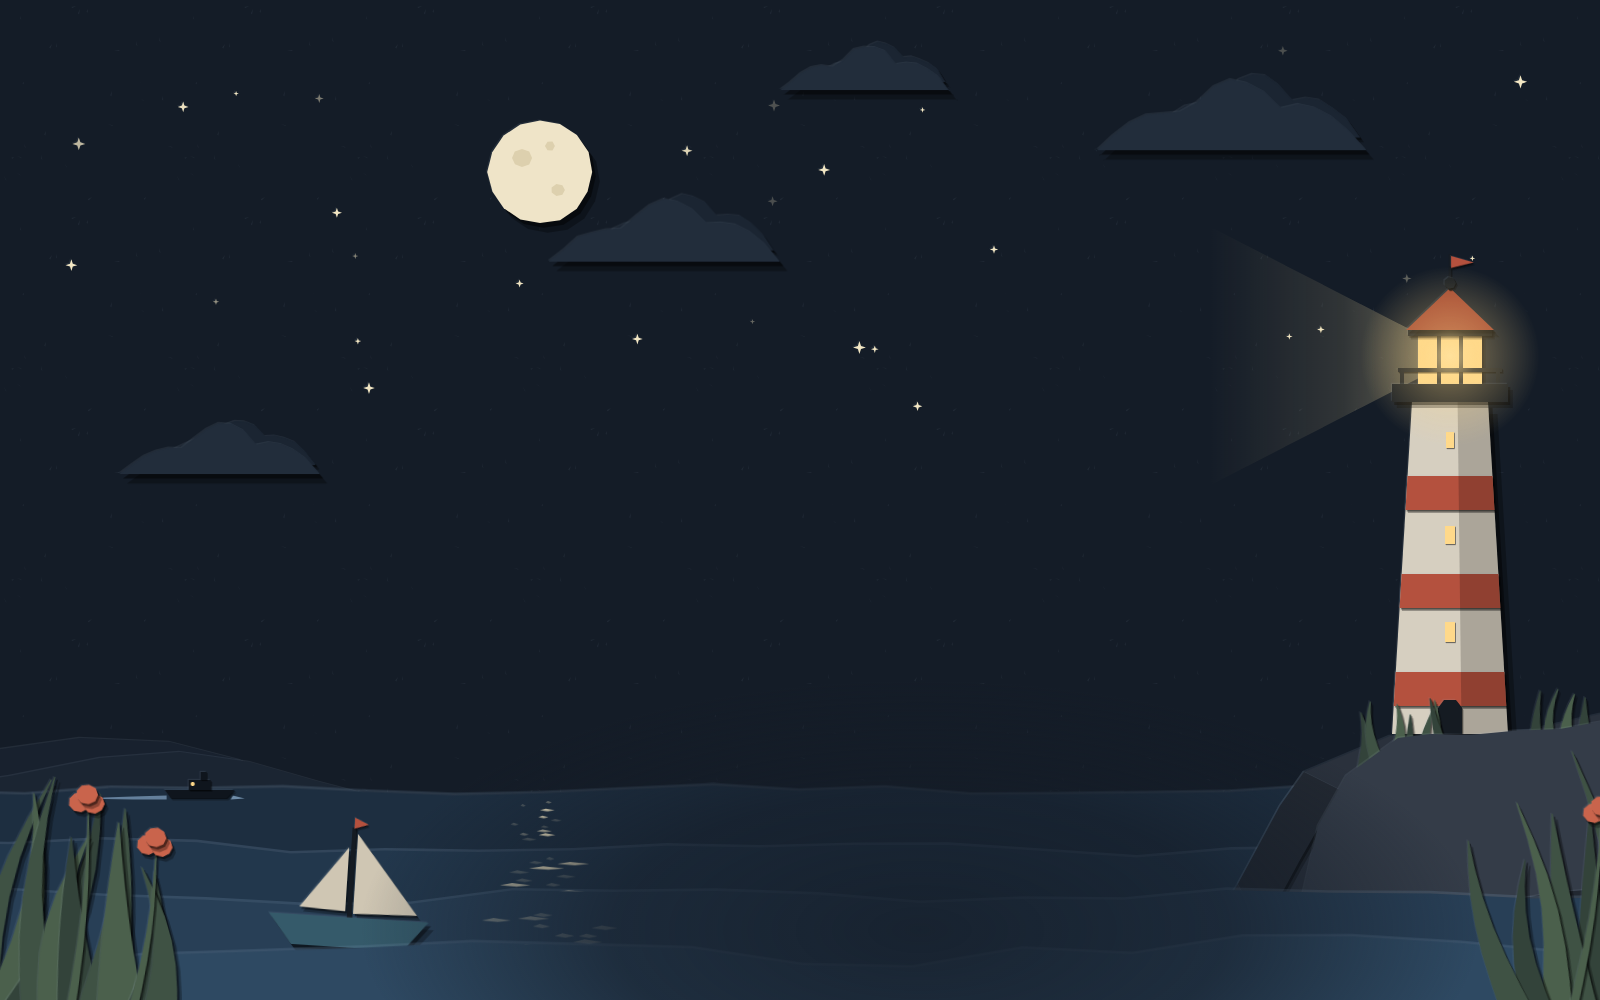
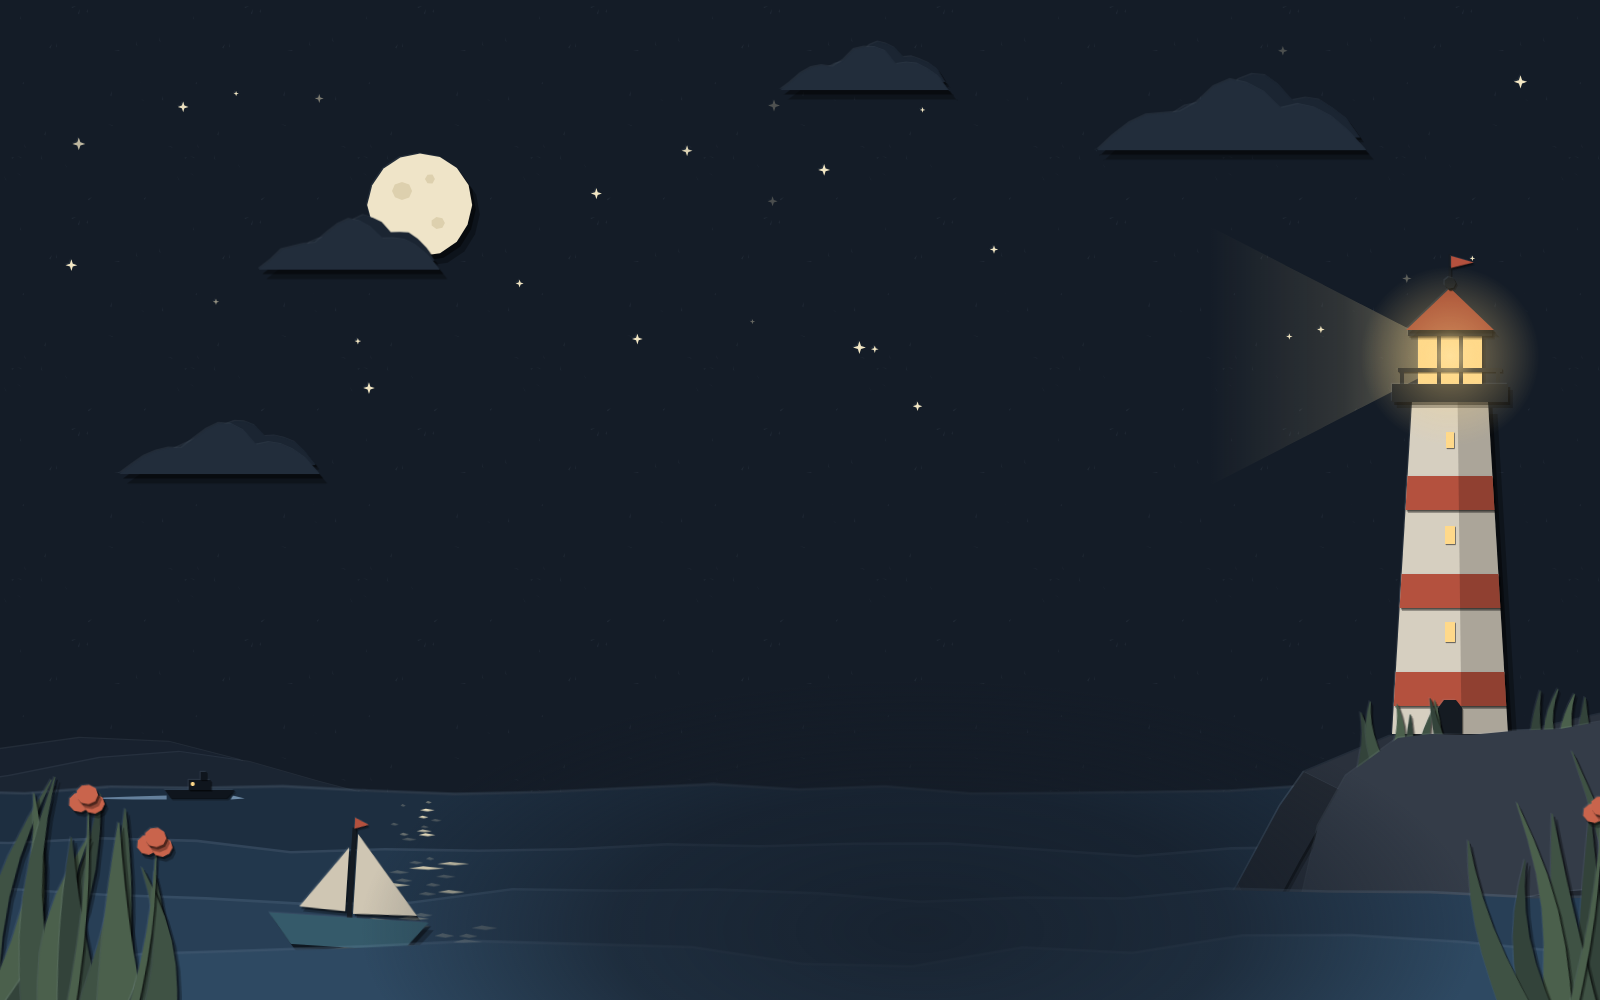
Sun and its cloud move into the gap beside the conversation
The sun sat at the left edge of the chat column and its cloud hid behind the
text. Both now sit between the sidebar and the conversation, a little lower,
with the cloud drifting across the sun's lower edge. The moon's craters follow
the sun's position instead of fixed numbers.

Changed region(s): [[0.2188, 0.124, 0.375, 0.279], [0.25, 0.868, 0.2812, 0.899], [0.25, 0.806, 0.2812, 0.837]]

diff --git a/hooks/scene.ts b/hooks/scene.ts
@@ -58,8 +58,8 @@ const TONES: [string, string] = [
 ]
 
 const LAMP: Point = [1450, 356]
-/** The sun by day, the moon by night: far enough right to clear the app's sidebar. */
-const SUN: Point = [540, 172]
+/** The sun by day, the moon by night: in the gap between the app's sidebar and the conversation, a little down toward the bay. */
+const SUN: Point = [420, 205]
 
 function fixed(value: number): number {
   return Number(value.toFixed(1))
@@ -198,9 +198,9 @@ function sky(): string {
     paper(shape('sunCore', facetEllipse(sunAt[0] - 6, sunAt[1] - 6, 40, 40, 16, 4)), 'sunCore', 1.2)
   day += moving('breathe', moving('spin', sun, 90, 0, sunAt), 9, 0, sunAt)
   night += paper(shape('moon', facetEllipse(sunAt[0], sunAt[1], 52, 52, 16, 5)), 'moon', 4)
-  night += paper(shape('crater1', facetEllipse(522, 158, 10, 9, 8, 6)), 'crater', 0, false)
-  night += paper(shape('crater2', facetEllipse(558, 190, 7, 6, 7, 7)), 'crater', 0, false)
-  night += paper(shape('crater3', facetEllipse(550, 146, 5, 5, 6, 8)), 'crater', 0, false)
+  night += paper(shape('crater1', facetEllipse(sunAt[0] - 18, sunAt[1] - 14, 10, 9, 8, 6)), 'crater', 0, false)
+  night += paper(shape('crater2', facetEllipse(sunAt[0] + 18, sunAt[1] + 18, 7, 6, 7, 7)), 'crater', 0, false)
+  night += paper(shape('crater3', facetEllipse(sunAt[0] + 10, sunAt[1] - 26, 5, 5, 6, 8)), 'crater', 0, false)
 
   for (let i = 0; i < 30; i += 1) {
     const x = 40 + hash(i, 11) * 1520
@@ -211,8 +211,9 @@ function sky(): string {
     night += i % 2 === 0 ? moving('twinkle', piece, 2.5 + hash(i, 14) * 3.5, hash(i, 15) * 6, [x, y]) : piece
   }
 
+  // The first cloud drifts in front of the sun's lower edge, in the same gap beside the conversation.
   const clouds: [number, number, number, number, number][] = [
-    [620, 262, 230, 62, 44],
+    [330, 270, 180, 50, 44],
     [1020, 156, 270, 70, 38],
     [40, 480, 200, 50, 52],
     [700, 96, 170, 44, 60],
